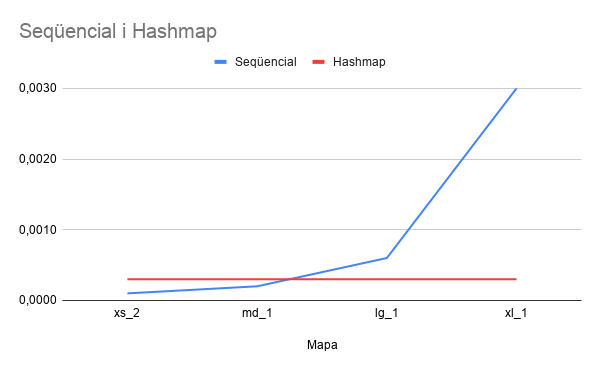
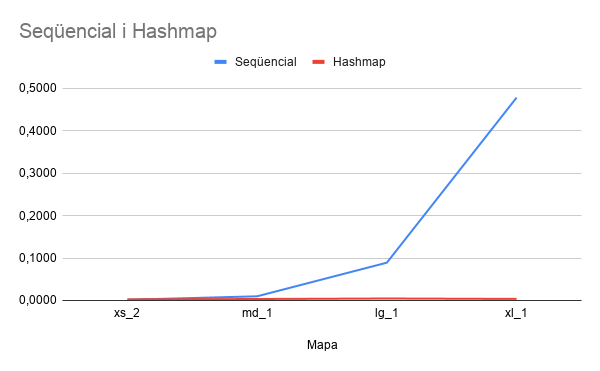
2.1 refet report

diff --git a/src/main_mesures.c b/src/main_mesures.c
@@ -214,16 +214,14 @@ void show_connected_streets(Hash_map* hash_map, Street* closest_street, StreetNo
         printf("         - %s\n", connected_2->carrer.street_name);
         connected_2 = connected_2->next;
     }
-}
+} 
 
 Street* input_closest_street(Position* posicio_origen, StreetNode* list_of_streets){
     // trobem el carrer més proper
     Street* closest_street = find_closest_street(posicio_origen,list_of_streets);
     // i mostem el text per pantalla
     printf("Closest street: %s\n", closest_street->street_name);
-    printf("Between %d (%lf, %lf) and %d (%lf, %lf)\n",closest_street->from_id,closest_street->from_position.lat,closest_street->from_position.lon,closest_street->to_id,closest_street->to_position.lat,closest_street->to_position.lon);
-
-    // i retornem el carrer més proxim
+    printf("Between %lld (%lf, %lf) and %lld (%lf, %lf)\n", closest_street->from_id, closest_street->from_position.lat, closest_street->from_position.lon, closest_street->to_id, closest_street->to_position.lat, closest_street->to_position.lon);
     return closest_street;
 
 }
@@ -255,7 +253,7 @@ int main() {
     printf("**************************************************\n");
 
     // Llista amb els mapes afegint la ruta i extensió reals del vostre projecte
-    char* mapes[] = {"data/xs_2.txt", "data/md_1.txt", "data/lg_1.txt", "data/xl_1.txt"};
+    char* mapes[] = {"maps/xs_2/streets.txt", "maps/md_1/streets.txt", "maps/lg_1/streets.txt", "maps/xl_1/streets.txt"};
     char* noms_taula[] = {"xs_2", "md_1", "lg_1", "xl_1"};
     
     for(int i = 0; i < 4; i++) {

diff --git a/docs/REPORT.md b/docs/REPORT.md
@@ -40,18 +40,18 @@ Sigui **V** el nombre de nodes (interseccions) i **E** el nombre d'arestes (segm
 
 ### 2.1. Latència per trobar carrers connectats segons la mida del mapa
 
-#### Dades en brut
+#### Dades en brut (Make m 5 cops)
 
 | Mapa  | Interseccions | Latència seqüencial (ms) | Latència hashmap (ms) |
 |-------|:-------------:|:------------------------:|:---------------------:|
-| xs\_2 | 71            | 0.0001                   | 0.0003                |
-| md\_1 | 1.122         | 0.0002                   | 0.0003                |
-| lg\_1 | 3.283         | 0.0006                   | 0.0003                |
-| xl\_1 | 15.378        | 0.003                    | 0.0003                |
+| xs\_2 | 71            | 0.0016                   | 0.0026               |
+| md\_1 | 1.122         | 0.0098                   | 0.0034               |
+| lg\_1 | 3.283         | 0.0890                  | 0.0046                |
+| xl\_1 | 15.378        | 0.4780                    | 0.0036               |
 
 #### Gràfica
 
-![Gràfica Comparativa de Latències](plot1.png) 
+![Gràfica Comparativa de Latències](Plot1.png) 
 
 #### Explicació
 